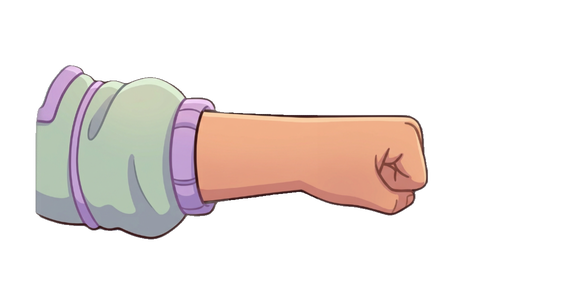
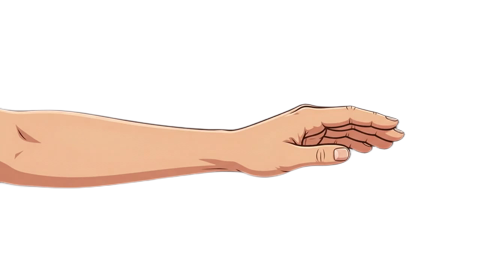
시범 손: 손가락 4종 APNG 교체 + 굽힘·폄 재매핑 (호는 sweep 운동만)
핀치·악력·벌리기·힘줄활주를 스켈레톤(guideHand)에서 APNG 스프라이트로 교체.
handSprite 맵에 4종을 등록하면 표시·정지프레임·숨김·레이아웃은 자동으로 따라온다.

- 손가락 4종 pivot: 회전축이 없는 동작이라 전 프레임에서 잰 손목 목(최소 단면)의
  중심을 배치 기준으로 사용. x는 실측(표준편차 0.25px 미만), y는 네 에셋 공통 178로
  통일해 운동이 이어져 재생돼도 손목이 제자리에 머물게 함.
- 굽힘·폄: 교체본이 566x294 -> 480x270 으로 프레임이 바뀌어 매핑을 그대로 둘 수
  없었다. w/h가 배치식(폭 = w*k*scale)에 직접 들어가므로 회전축을 다시 재고
  pivot (252,138) / k 0.90 으로 갱신.
- 호(arc)·화살표는 ARC_GUIDES(굽힘·폄·편위)에서만. drawFrontMotionGuide의 화살표
  좌표가 스켈레톤 손 기준 하드코딩이라 APNG 위에서는 어긋난 자리에 떴다.
- 에셋 URL에 버전 쿼리(?v=2). 같은 파일명으로 그림만 갈아끼우면 디스크 캐시가 옛
  그림을 계속 내주는데, 정지 프레임은 JS가 나중에 붙이는 이미지라 하드 리로드로도
  갱신되지 않는다(굽힘·폄이 intro/outro만 옛 손으로 나오던 원인).
- 정지 프레임 경로를 sprite.still()로 노출. 호출부가 <img>.src를 문자열로 변형해
  만들던 방식은 버전 쿼리가 붙으면 깨진다.

Changed region(s): [[0.0, 0.2074, 0.8438, 0.8296]]

diff --git a/js/guide/handSprite.js b/js/guide/handSprite.js
@@ -1,6 +1,7 @@
 // ═══════════════════════════════════════════════════════════
-// handSprite.js — 시범 손 APNG 스프라이트 (굽힘·폄 / 좌우 편위)
-// 이 두 운동은 스켈레톤 손(guideHand.js) 대신 미리 렌더된 우주복 손 애니를 쓴다.
+// handSprite.js — 시범 손 APNG 스프라이트
+// 여기 등록된 운동은 스켈레톤 손(guideHand.js) 대신 미리 렌더된 손 애니를 쓴다.
+// 등록되지 않은 id는 show()가 false를 돌려주고 스켈레톤으로 폴백한다.
 // 호(arc)·화살표는 지금처럼 캔버스가 그리므로, 여기서 책임지는 건 딱 하나 —
 //   "이미지 안 손목이 캔버스 위 호의 중심에 정확히 물리게 얹는 것".
 //
@@ -11,24 +12,64 @@
 //   이미지좌표(px) --k--> 손 로컬 단위 --scale--> 캔버스 px
 //   pivot(이미지 안 손목)이 (cx,cy) + WRIST[view] * scale 에 오도록 좌상단을 역산.
 //
-// pivot 값은 눈대중이 아니라 APNG 프레임에서 잰 값이다: 손은 손목을 축으로 도는
-// 강체라 손 영역 무게중심이 원을 그리고, 그 원의 중심이 곧 회전축(잔차 0.1px 미만).
-// k는 손끝이 호 안쪽에 살짝 들어오도록 맞췄다(스켈레톤 손끝과 같은 반경대).
+// pivot 값은 눈대중이 아니라 APNG 프레임에서 잰 값이다(운동 종류별 기준은 SPRITES 위 주석).
+// k는 손끝이 호 안쪽에 살짝 들어오도록, 손가락 운동은 손이 무대를 꽉 채우도록 맞췄다.
+//
+// ⚠ 에셋을 새로 뽑으면 w/h/pivot/k를 반드시 다시 잰다 — 프레임 크기가 달라지면
+//   w·h가 배치 계산(폭 = w*k*scale)에 그대로 들어가 손이 어긋나고 크기도 틀어진다.
 // ═══════════════════════════════════════════════════════════
 
 // 손 로컬 좌표의 손목 = 회전 중심 — guideHand.js drawSide(wx,wy)·drawFront(0,70)와 같은 점
 const WRIST = { side: { x: 4, y: 14 }, front: { x: 0, y: 70 } };
 
+// ─── 손목이 도는 sweep 운동 — pivot = 실측 회전축 ───
+// 프레임을 겹치면 팔뚝은 겹치고 손만 부채꼴로 벌어진다. 그 수렴점이 회전축이고,
+// 호(arc)가 이 점을 중심으로 그려지므로 pivot은 여기서 눈대중이 아니라 실측값이다.
+//
+// ─── 손가락 운동(핀치·악력·벌리기·힘줄활주) — pivot = 손목 배치 기준점 ───
+// 손목은 고정이고 손가락만 움직여 "회전축"이 없다. 호도 띄우지 않으므로(main.js
+// ARC_GUIDES) pivot은 순수 배치 기준 — 프레임 전체에서 잰 손목 목(최소 단면)의
+// 중심을 쓴다. x는 팔뚝 중심(측정 표준편차 0.25px 미만), y는 네 에셋 공통 178.
+// 넷이 같은 값을 쓰므로 운동이 이어져 재생돼도 손목이 제자리에 머문다.
+// ─── 에셋 버전 ───
+// 같은 파일명으로 그림만 갈아끼우면 브라우저 디스크 캐시가 옛 그림을 계속 내준다.
+// 특히 정지 프레임은 JS가 나중에 <img>.src로 붙이는 이미지라 하드 리로드(Ctrl+Shift+R)로도
+// 갱신되지 않는다 — 실제로 굽힘·폄이 intro/outro에선 옛 손, follow에선 새 손으로 갈렸다.
+// 게다가 프레임 크기가 바뀌면 아래 w/h 배치까지 어긋난다.
+// ⚠ 에셋을 새로 뽑을 때마다 이 숫자를 올린다 (고정 쿼리라 캐시는 정상 동작 — 매번 재요청 아님).
+const ASSET_V = 2;
+const asset = (name) => `assets/${name}.png?v=${ASSET_V}`;
+
 const SPRITES = {
   flex_ext: {
     view: 'side',
-    anim: 'assets/guide-flexext.png', still: 'assets/guide-flexext-static.png',
-    w: 566, h: 294, pivot: { x: 250.7, y: 154.3 }, k: 0.63,
+    anim: asset('guide-flexext'), still: asset('guide-flexext-static'),
+    w: 480, h: 270, pivot: { x: 252, y: 138 }, k: 0.90,
   },
   deviation: {
     view: 'front',
-    anim: 'assets/guide-deviation.png', still: 'assets/guide-deviation-static.png',
+    anim: asset('guide-deviation'), still: asset('guide-deviation-static'),
     w: 317, h: 568, pivot: { x: 171.0, y: 309.5 }, k: 0.60,
+  },
+  pinch_hold: {
+    view: 'front',
+    anim: asset('guide-pinch'), still: asset('guide-pinch-static'),
+    w: 480, h: 270, pivot: { x: 240.4, y: 178 }, k: 0.99,
+  },
+  grip_hold: {
+    view: 'front',
+    anim: asset('guide-grip'), still: asset('guide-grip-static'),
+    w: 480, h: 270, pivot: { x: 240.1, y: 178 }, k: 0.99,
+  },
+  finger_spread: {
+    view: 'front',
+    anim: asset('guide-spread'), still: asset('guide-spread-static'),
+    w: 480, h: 270, pivot: { x: 240.3, y: 178 }, k: 0.99,
+  },
+  tendon_glide: {
+    view: 'front',
+    anim: asset('guide-tendon'), still: asset('guide-tendon-static'),
+    w: 480, h: 270, pivot: { x: 241.0, y: 178 }, k: 0.99,
   },
 };
 
@@ -93,6 +134,11 @@ export function createHandSprite(img) {
       node.hidden = false;
       return true;
     },
+
+    /** 현재 운동의 정지 프레임 URL (intro·outro 표시용) — 없으면 null.
+     *  호출부가 <img>.src를 문자열로 주물러 만들지 않게 여기서 준다
+     *  (버전 쿼리가 붙으면 ".png로 끝난다"는 가정이 깨진다). */
+    still() { return cur ? cur.still : null; },
 
     hide() {
       cur = null;

diff --git a/js/main.js b/js/main.js
@@ -1013,7 +1013,7 @@ async function initGuide() {
   guide = {
     wired: true, tracking, mods: { drawGuideHand, createAnimPlayer, createStepEngine, createWristTracker, getGuide },
     els, ctx: els.canvas.getContext('2d'),
-    sprite: createHandSprite(els.anim), // 시범 손 APNG (굽힘·폄·편위) — 없는 운동은 스켈레톤 유지
+    sprite: createHandSprite(els.anim), // 시범 손 APNG — 맵에 없는 운동은 스켈레톤 유지
     spriteOn: false,                    // = drawGuideHand의 hideHand
     demoRaf: null, demoAnim: null,      // 시범 손 운동의 호 데모 루프 (follow 스텝, 카메라 무관, now 기반)
     spriteStill: null,                  // 시범 손 정지 프레임 경로 (intro/outro 표시용)
@@ -1182,14 +1182,14 @@ async function startGuide(id, routineMode = false) {
   guide.cur = g;
   guide.lastParams = null;
   guide.poseBlend = null;
-  // 시범 손: 굽힘·폄·편위는 새 APNG 스프라이트(스켈레톤 숨김), 나머지 4개는 그대로 스켈레톤
+  // 시범 손: handSprite에 등록된 운동은 APNG 스프라이트(스켈레톤 숨김), 없으면 스켈레톤 폴백
   guide.spriteOn = guide.sprite.show(g.id, stageLayout(els.canvas, g.view));
   // 스프라이트 리듬은 원래 스켈레톤과 같다: intro·outro는 정지 프레임(호 없음), follow만
   // 애니 APNG+호. 시작(=intro)은 정지 프레임으로 두고, 애니↔호는 onEnterStep에서 스텝별로 켠다.
-  // (show()가 방금 넣은 애니 경로에서 정지 프레임 경로를 만든다 — handSprite의 still 규칙과 동일.)
+  // 정지 프레임 경로는 handSprite가 직접 준다 — src 문자열을 여기서 변형하지 않는다.
   stopArcDemo();
   if (guide.spriteOn) {
-    guide.spriteStill = (els.anim.getAttribute('src') || '').replace(/(-static)?\.png$/, '-static.png');
+    guide.spriteStill = guide.sprite.still();
     els.anim.src = guide.spriteStill;
   }
   els.list.hidden = true;
@@ -1225,12 +1225,14 @@ async function startGuide(id, routineMode = false) {
         ? { from: guide.lastParams, start: null }
         : null;
       // 스프라이트 운동의 표시 전환 — 원래 스켈레톤 리듬 복원:
-      //  · follow: 애니 APNG로 되감아(sprite.restart, 프레임 0=앱 주기와 같은 시작 위상) 재생 +
-      //    카메라 독립 데모 rAF로 호+화살표. 호는 이 스텝에서만 뜬다.
+      //  · follow: 애니 APNG로 되감아(sprite.restart, 프레임 0=앱 주기와 같은 시작 위상) 재생.
+      //    호+화살표는 sweep 운동(ARC_GUIDES)만 — 카메라 독립 데모 rAF로, 이 스텝에서만.
       //  · intro·outro: 정지 프레임(호 없음). 데모 루프 정지 + 캔버스 클리어(호 잔상 제거).
       if (guide.spriteOn) {
-        if (step.type === 'follow') { guide.sprite.restart(); guide.demoAnim = startArcDemo(g); }
-        else { stopArcDemo(); els.anim.src = guide.spriteStill; }
+        if (step.type === 'follow') {
+          guide.sprite.restart();
+          if (ARC_GUIDES.has(g.id)) guide.demoAnim = startArcDemo(g);
+        } else { stopArcDemo(); els.anim.src = guide.spriteStill; }
       }
     },
     onCount: (count, reps) => { fillDots(count, reps); setCount(count, reps); if (count > 0) repFeedback(count); },
@@ -1414,6 +1416,14 @@ function drawStage(ctx, canvas, drawGuideHand, params, view, now, hideHand = fal
   ctx.restore();
   drawGuideHand(ctx, params, view, { cx, cy, scale, now, hideHand });
 }
+
+/** 호(arc)·화살표 오버레이를 얹는 운동 — 손목이 돌아가는 sweep 동작만.
+ *  손가락 운동(핀치·악력·벌리기·힘줄활주)을 뺀 이유 두 가지:
+ *   ① drawFrontMotionGuide의 손가락 화살표 좌표가 스켈레톤 손 기준 하드코딩이라
+ *      APNG 손 위에서는 어긋난 자리에 뜬다.
+ *   ② APNG가 이미 동작을 다 보여줘 중복이다.
+ *  여기 없는 id는 startArcDemo를 아예 안 켠다 → 캔버스는 비어 있고 APNG만 남는다. */
+const ARC_GUIDES = new Set(['flex_ext', 'deviation']);
 
 /** 시범 손(APNG) 운동의 호(arc) 데모 루프 — follow 스텝에서만 돈다. APNG는 브라우저가
  *  알아서 재생하지만 호는 JS가 캔버스에 그린다 — 카메라 렌더 루프에 얹으면 카메라 권한이
